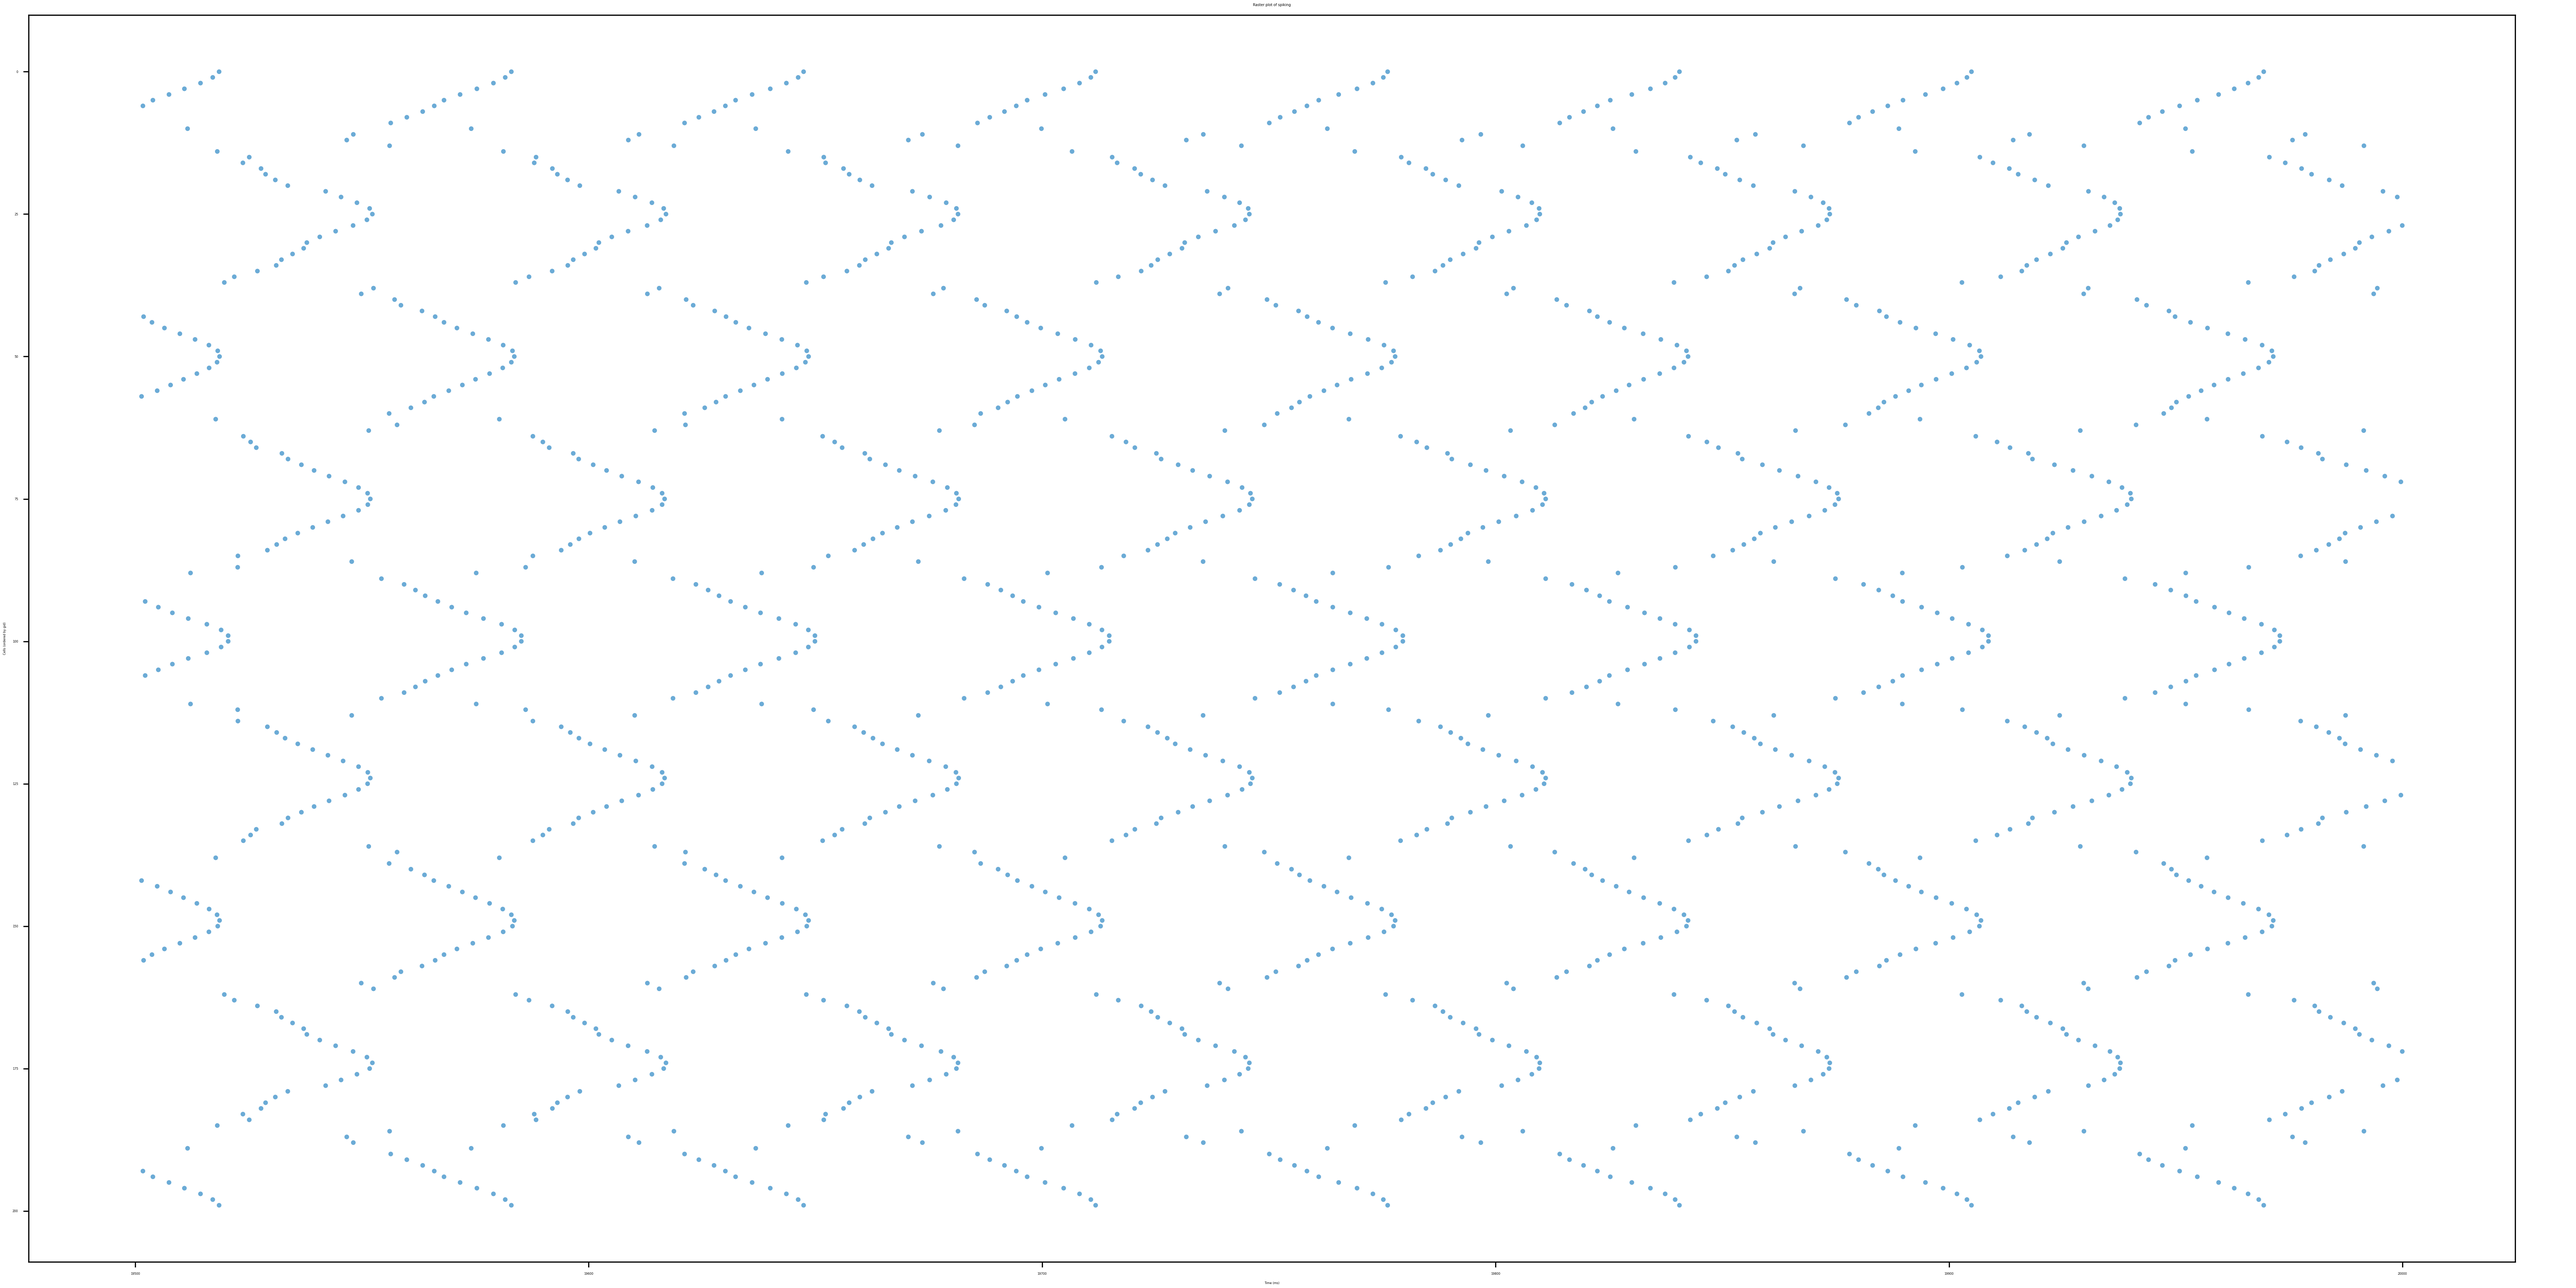
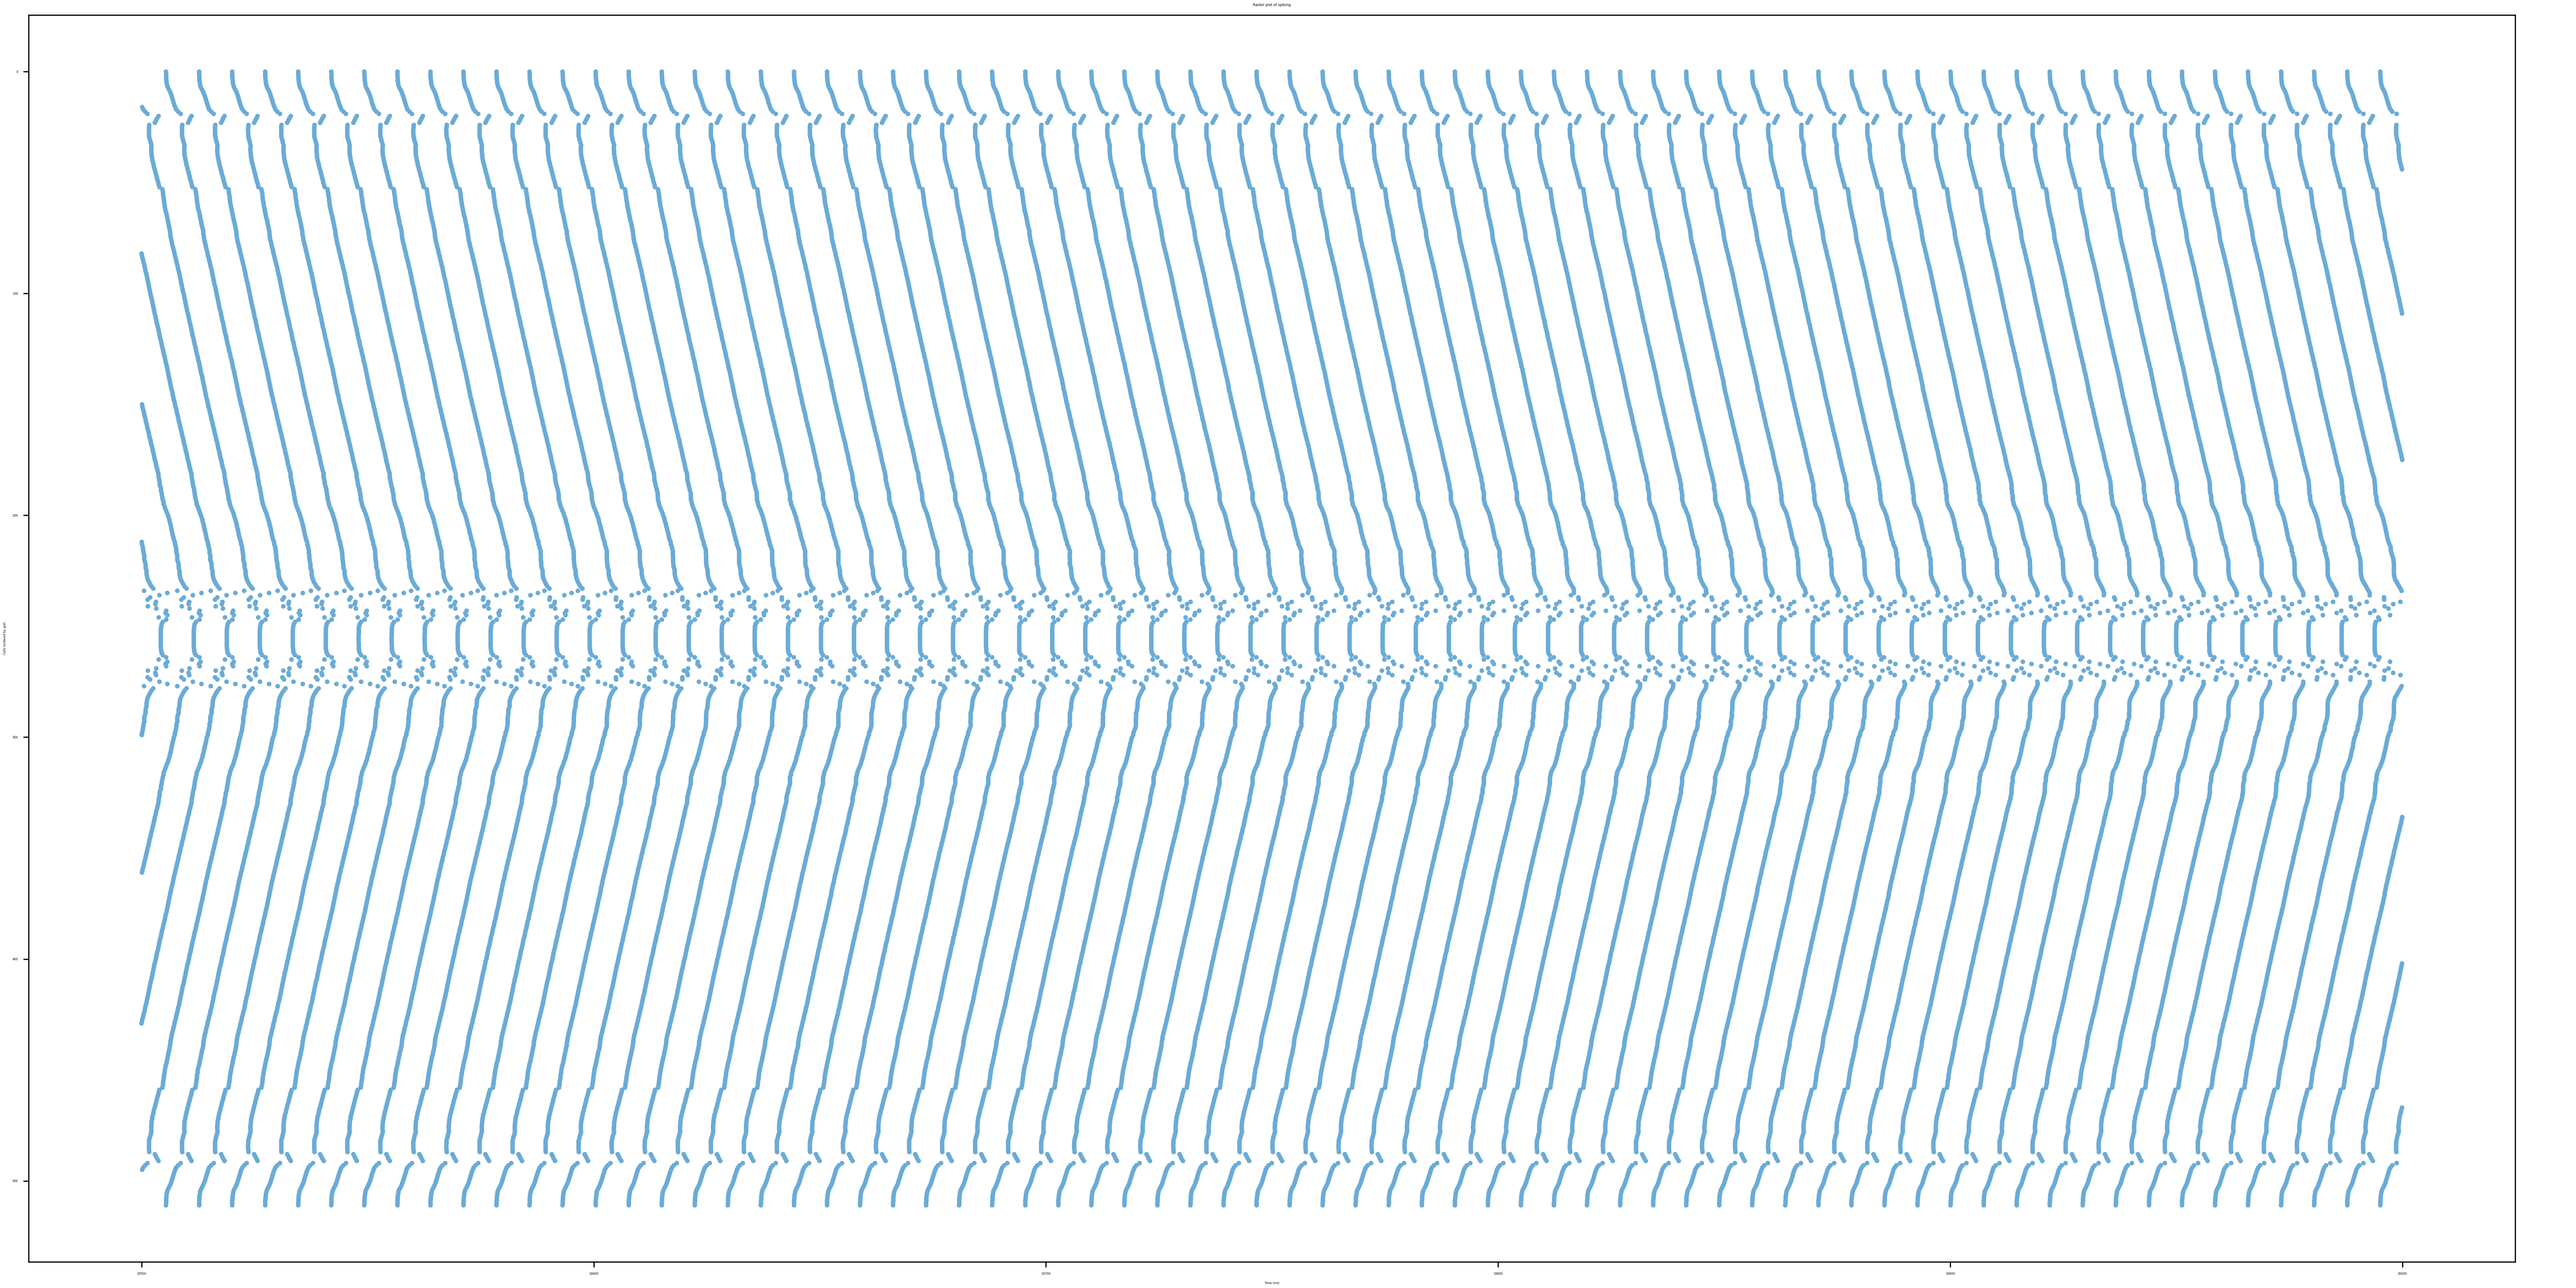
update files

Changed region(s): [[0.0625, 0.0622, 0.9375, 0.9333]]

diff --git a/sim/cfg.py b/sim/cfg.py
@@ -52,10 +52,10 @@ cfg.allcells = ['sPY']#, 'sIN']#, 'sPYbr', 'sPYb', 'sPYr', 'sPY']
 #------------------------------------------------------------------------------
 # Start time:  2023-09-27 14:22:23.374192
 # 
-cfg.cellNumber = 1000
+cfg.cellNumber = 512
 cfg.gex = 0.0004 # default 0.0005
-cfg.n_neighbors = 80 #int(0.3 * cfg.cellNumber) # all conetions 
-cfg.amp = 0.2
+cfg.n_neighbors = 52 #int(0.3 * cfg.cellNumber) # all conetions 
+cfg.amp = 0.175
 cfg.synapse_delay = cfg.dt #0.05 #1 #0.01
 
 for cell in cfg.allcells:
